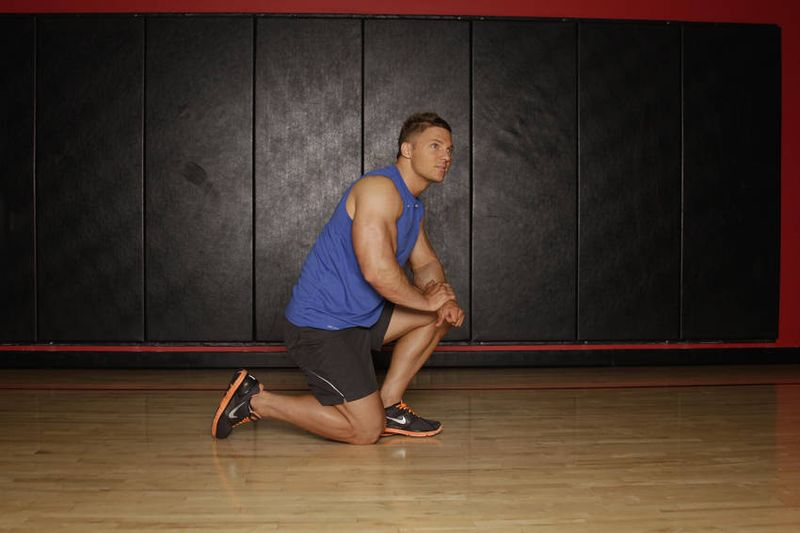
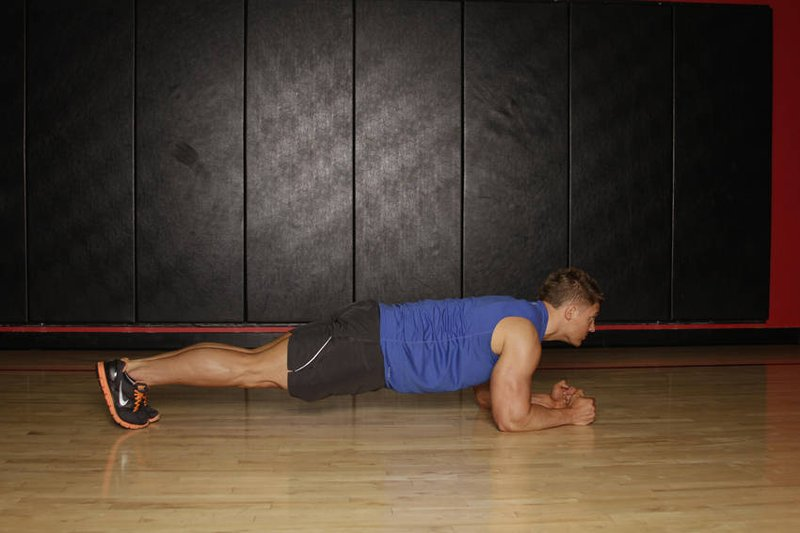
Plan v3: fix plank photo (real forearm plank)

diff --git a/images/CREDITS.md b/images/CREDITS.md
@@ -15,6 +15,6 @@
 | cable_curl | free-exercise-db `Standing_Biceps_Cable_Curl` (0.jpg start, 1.jpg end) | Unlicense / public domain | https://github.com/yuhonas/free-exercise-db/tree/main/exercises/Standing_Biceps_Cable_Curl |
 | triceps_pushdown | free-exercise-db `Triceps_Pushdown_-_Rope_Attachment` (0.jpg start, 1.jpg end) | Unlicense / public domain | https://github.com/yuhonas/free-exercise-db/tree/main/exercises/Triceps_Pushdown_-_Rope_Attachment |
 | dead_bug | free-exercise-db `Dead_Bug` (0.jpg start, 1.jpg end) | Unlicense / public domain | https://github.com/yuhonas/free-exercise-db/tree/main/exercises/Dead_Bug |
-| plank | free-exercise-db `Plank` (0.jpg start, 1.jpg end) | Unlicense / public domain | https://github.com/yuhonas/free-exercise-db/tree/main/exercises/Plank |
+| plank | free-exercise-db `Plank` 1.jpg (forearm plank; 0.jpg in upstream is a kneel prep so omitted) | Unlicense / public domain | https://github.com/yuhonas/free-exercise-db/tree/main/exercises/Plank |
 
 Images resized/cropped to max 800px wide.
